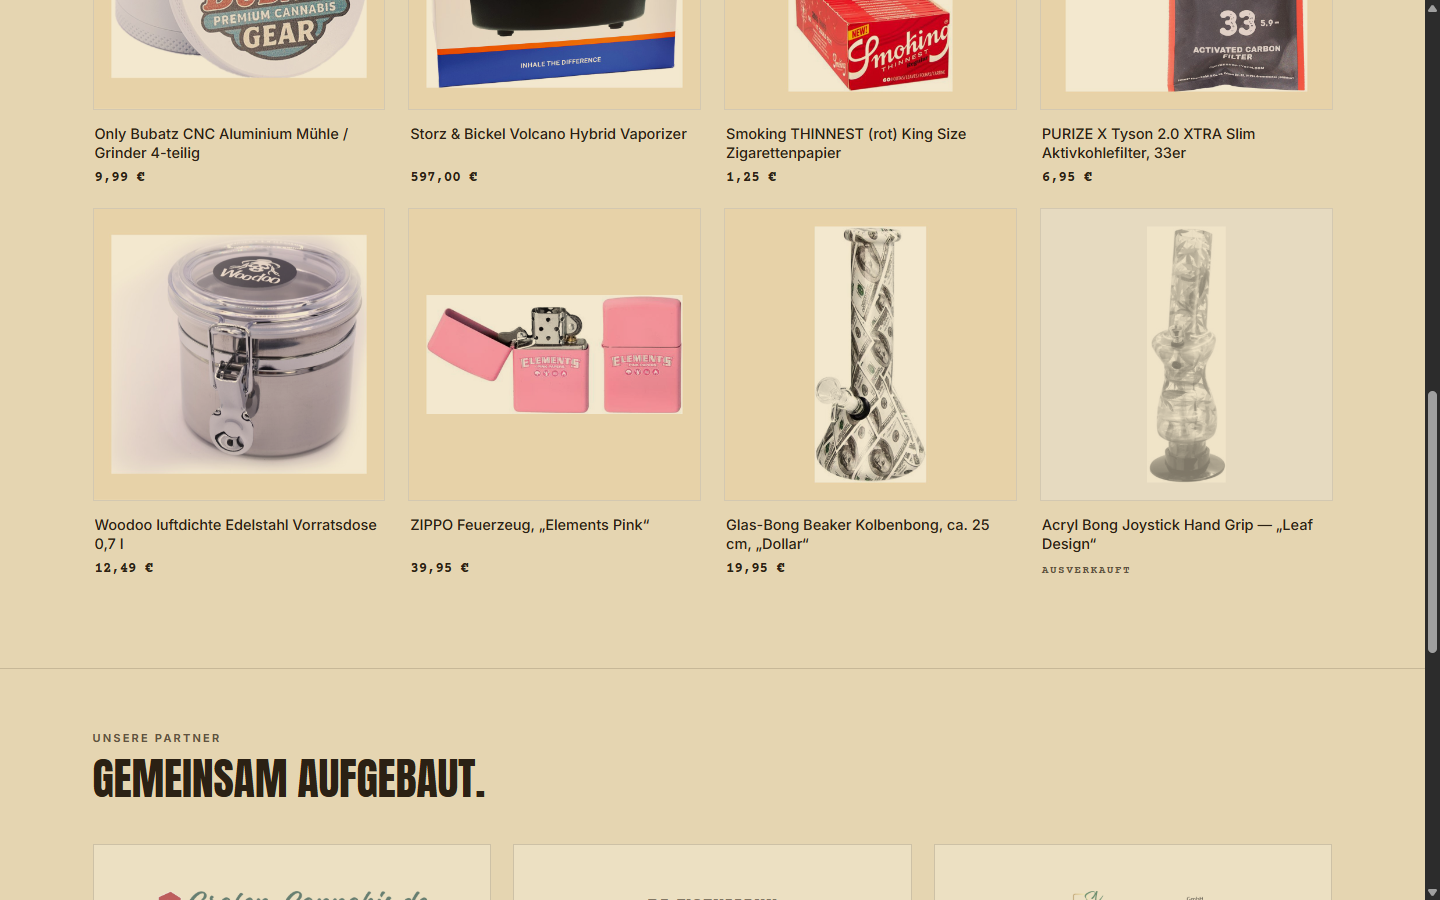
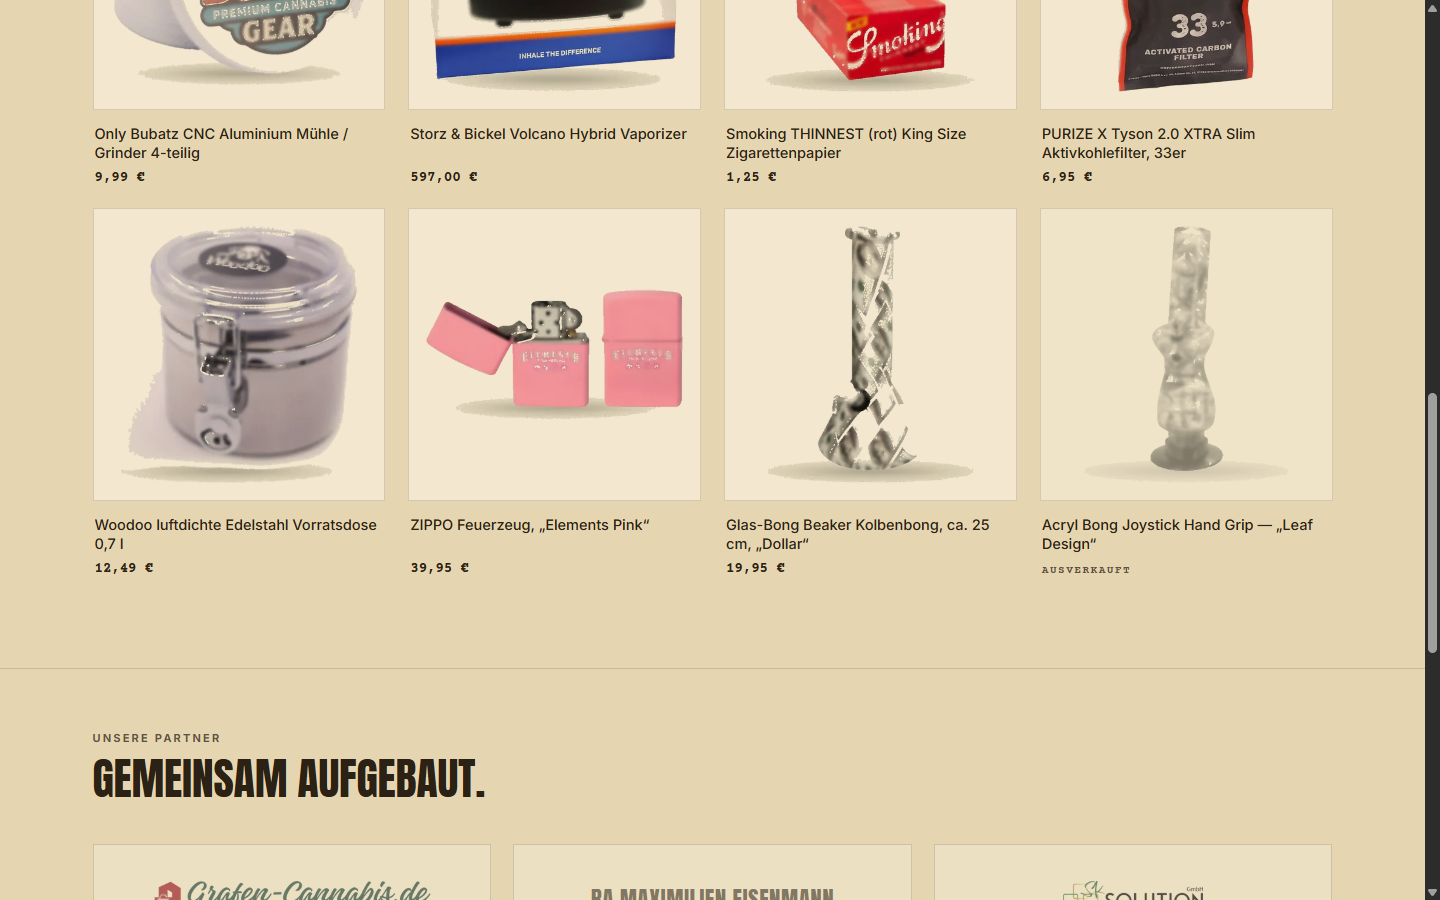
v29: Bilder auf Alpha-WebP umgestellt (multiply + gebackenes Papier dunkelte die Kachel auf #e7d3a8 ab, gemessen), README nachgezogen

diff --git a/v29/index.html b/v29/index.html
@@ -13,7 +13,7 @@
 
 <div class="flag">
   <span><b>VORSCHAU v29</b> · kein Live-Shop · Preise, Namen und Bilder aus dem Katalog</span>
-  <span>Ausverkauft-Zustand an <b>1 Karte</b> simuliert · Partner-Links folgen aus dem Metaobject</span>
+  <span>Ausverkauft-Zustand an <b>1 Karte</b> simuliert</span>
 </div>
 
 <header class="hdr">
@@ -91,50 +91,50 @@
 
     <div class="grid">
       <a class="card reveal" style="--i:0" href="#">
-        <div class="ph"><img src="img/uni/grinder.jpg" alt="Only Bubatz CNC Aluminium Mühle, 4-teilig" loading="lazy" width="1000" height="1000"></div>
+        <div class="ph"><img src="img/uni/grinder.webp" alt="Only Bubatz CNC Aluminium Mühle, 4-teilig" loading="lazy" width="480" height="480"></div>
         <div class="body"><p class="t">Only Bubatz CNC Aluminium Mühle / Grinder 4-teilig</p>
           <div class="row"><span class="p">9,99 €</span></div></div>
       </a>
 
       <a class="card reveal" style="--i:1" href="#">
-        <div class="ph"><img src="img/uni/volcano.jpg" alt="Storz &amp; Bickel Volcano Hybrid Vaporizer" loading="lazy" width="1000" height="1000"></div>
+        <div class="ph"><img src="img/uni/volcano.webp" alt="Storz &amp; Bickel Volcano Hybrid Vaporizer" loading="lazy" width="480" height="480"></div>
         <div class="body"><p class="t">Storz &amp; Bickel Volcano Hybrid Vaporizer</p>
           <div class="row"><span class="p">597,00 €</span></div></div>
       </a>
 
       <a class="card reveal" style="--i:2" href="#">
-        <div class="ph"><img src="img/uni/papers.jpg" alt="Smoking THINNEST rot, King Size" loading="lazy" width="1000" height="1000"></div>
+        <div class="ph"><img src="img/uni/papers.webp" alt="Smoking THINNEST rot, King Size" loading="lazy" width="480" height="480"></div>
         <div class="body"><p class="t">Smoking THINNEST (rot) King Size Zigarettenpapier</p>
           <div class="row"><span class="p">1,25 €</span></div></div>
       </a>
 
       <a class="card reveal" style="--i:3" href="#">
-        <div class="ph"><img src="img/uni/filter.jpg" alt="PURIZE X Tyson 2.0 Aktivkohlefilter" loading="lazy" width="1000" height="1000"></div>
+        <div class="ph"><img src="img/uni/filter.webp" alt="PURIZE X Tyson 2.0 Aktivkohlefilter" loading="lazy" width="480" height="480"></div>
         <div class="body"><p class="t">PURIZE X Tyson 2.0 XTRA Slim Aktivkohlefilter, 33er</p>
           <div class="row"><span class="p">6,95 €</span></div></div>
       </a>
 
       <a class="card reveal" style="--i:0" href="#">
-        <div class="ph"><img src="img/uni/stash.jpg" alt="Woodoo luftdichte Vorratsdose 0,7 Liter" loading="lazy" width="1000" height="1000"></div>
+        <div class="ph"><img src="img/uni/stash.webp" alt="Woodoo luftdichte Vorratsdose 0,7 Liter" loading="lazy" width="480" height="480"></div>
         <div class="body"><p class="t">Woodoo luftdichte Edelstahl Vorratsdose 0,7 l</p>
           <div class="row"><span class="p">12,49 €</span></div></div>
       </a>
 
       <a class="card reveal" style="--i:1" href="#">
-        <div class="ph"><img src="img/uni/zippo.jpg" alt="Zippo Feuerzeug Elements Pink" loading="lazy" width="1000" height="1000"></div>
+        <div class="ph"><img src="img/uni/zippo.webp" alt="Zippo Feuerzeug Elements Pink" loading="lazy" width="480" height="480"></div>
         <div class="body"><p class="t">ZIPPO Feuerzeug, „Elements Pink“</p>
           <div class="row"><span class="p">39,95 €</span></div></div>
       </a>
 
       <a class="card reveal" style="--i:2" href="#">
-        <div class="ph"><img src="img/uni/glasbong.jpg" alt="Glas-Bong Beaker, ca. 25 cm" loading="lazy" width="1000" height="1000"></div>
+        <div class="ph"><img src="img/uni/glasbong.webp" alt="Glas-Bong Beaker, ca. 25 cm" loading="lazy" width="480" height="480"></div>
         <div class="body"><p class="t">Glas-Bong Beaker Kolbenbong, ca. 25 cm, „Dollar“</p>
           <div class="row"><span class="p">19,95 €</span></div></div>
       </a>
 
       <!-- Punkt 3: ausverkauft -->
       <a class="card reveal" style="--i:3" href="#" data-soldout aria-label="Acryl Bong Joystick Leaf Design — ausverkauft">
-        <div class="ph"><img src="img/uni/bong.jpg" alt="Acryl Bong Joystick Hand Grip, Leaf Design" loading="lazy" width="1000" height="1000"></div>
+        <div class="ph"><img src="img/uni/bong.webp" alt="Acryl Bong Joystick Hand Grip, Leaf Design" loading="lazy" width="480" height="480"></div>
         <div class="body">
           <p class="t">Acryl Bong Joystick Hand Grip — „Leaf Design“</p>
           <div class="row"><span class="p">14,95 €</span></div>
@@ -213,12 +213,12 @@
   </div>
   <div class="ditems">
     <div class="ditem">
-      <div class="ph"><img src="img/uni/grinder.jpg" alt=""></div>
+      <div class="ph"><img src="img/uni/grinder.webp" alt=""></div>
       <div><p class="t">Only Bubatz CNC Aluminium Mühle / Grinder 4-teilig</p><p class="q">1 ×</p></div>
       <span class="p" data-price="9.99">9,99 €</span>
     </div>
     <div class="ditem">
-      <div class="ph"><img src="img/uni/papers.jpg" alt=""></div>
+      <div class="ph"><img src="img/uni/papers.webp" alt=""></div>
       <div><p class="t">Smoking THINNEST (rot) King Size</p><p class="q">1 ×</p></div>
       <span class="p" data-price="1.25">1,25 €</span>
     </div>

diff --git a/v29/v29.css b/v29/v29.css
@@ -159,7 +159,7 @@ h1 em{font-style:normal;color:var(--rust);display:block}
   animation:drift 30s ease-in-out infinite alternate;
   will-change:transform;
 }
-.stage::after{
+body.hero-cutout .stage::after{
   content:"";position:absolute;inset:0;pointer-events:none;
   background:
     linear-gradient(96deg, rgba(10,36,22,.55) 0%, rgba(10,36,22,.10) 34%, rgba(10,36,22,0) 60%),

diff --git a/v29/README.md b/v29/README.md
@@ -7,7 +7,7 @@ Display jetzt **Anton** statt Alba Slab (siehe `TASTE.md`: Retro nur als Akzent)
 - `index.html` — Startseite, eine Datei, kein Build
 - `v29.css` — Design-Schicht (Tokens oben, alles über CSS-Variablen)
 - `app.js` — Warenkorb, Reveal, Summe
-- `img/uni/` — 10 Produktbilder, auf ein Maß normalisiert (Quelle: `v28/img`)
+- `img/uni/` — 10 Produktbilder als transparente WebP aus `fotos/after/` (freigestellt, 1:1, 88 %)
 - `img/partner/` — Partner-Logos aus `theme_v28/assets`
 - `shots/` — Aufnahmen 1440 und 390
 
@@ -18,7 +18,7 @@ Display jetzt **Anton** statt Alba Slab (siehe `TASTE.md`: Retro nur als Akzent)
 | 2 | Hero rechts modern, schräg statt gerade, kleine Animation | Bildfläche randlos, linke Kante **13 %** schräg (mobil Oberkante 9 %), 900-ms-Schnitt beim Laden, danach 30-s-Drift `scale(1.03→1.10)` |
 | 3 | Ausverkauft komplett ausgegraut, Preis weg, Produkt erahnbar | `filter:grayscale(1)`, Deckkraft .62, Papier-Schleier .22; Preis/Button `visibility:hidden` (Platz bleibt), Label „Ausverkauft“ in Mono |
 | 4 | Partner vor der E-Mail, Klick zur Partnerseite | Sektion „Unsere Partner“ direkt über dem Newsletter, ganze Kachel = `<a target="_blank">`, Logo oder Wortmarke |
-| 5 | Alle Produktbilder gleich in den Karten | 1:1-Rahmen, Inhalt auf 88 % zentriert auf `#f3e8cf` gebacken, `multiply`; Normalisierung: `../shopify-workspace/_v29_normalize.py` |
+| 5 | Alle Produktbilder gleich in den Karten | 1:1-Rahmen, transparente WebP aus `fotos/after/` + `multiply` auf `#f3e8cf`; gemessen Kachel = `#f3e8cf` |
 | 6 | Alles über Shopify einstellbar | siehe Settings-Liste unten (noch nicht im Theme gebaut) |
 | 7 | Dezente Animationen | eine Skala 140/220/380/900 ms, nur `opacity`+`transform`, Reveal 12 px, `prefers-reduced-motion` respektiert |
 
@@ -38,7 +38,6 @@ Kontrast: Rost auf Papier 4,56:1 · Tinte 10,9:1 · Creme auf Grün 10,2:1.
 - `cart-drawer.liquid`: alte Blatt-Phasen entfernen, 220/180 ms übernehmen
 
 ## Offen
-- Partner-Ziel-URLs fehlen (Platzhalter `#`)
+- Partner: SK-Solution-Ziel-URL fehlt (Kachel bleibt nicht klickbar)
 - `partner-ra-eisenmann.png` ist nur ein Blattsymbol → Wortmarke, echtes Logo nötig
-- Volcano-Foto hat einen grauen Studio-Verlauf → bleibt als Kasten sichtbar, Neuaufnahme nötig
-- Nur 10 von 416 Bildern normalisiert; Skript auf alle anwenden, dann Karten prüfen
+- Hero-Quelle ist 1280 × 720 → bei 2×-Display 1,7× hochskaliert; gebraucht 3:2, ≥ 2400 × 1600
